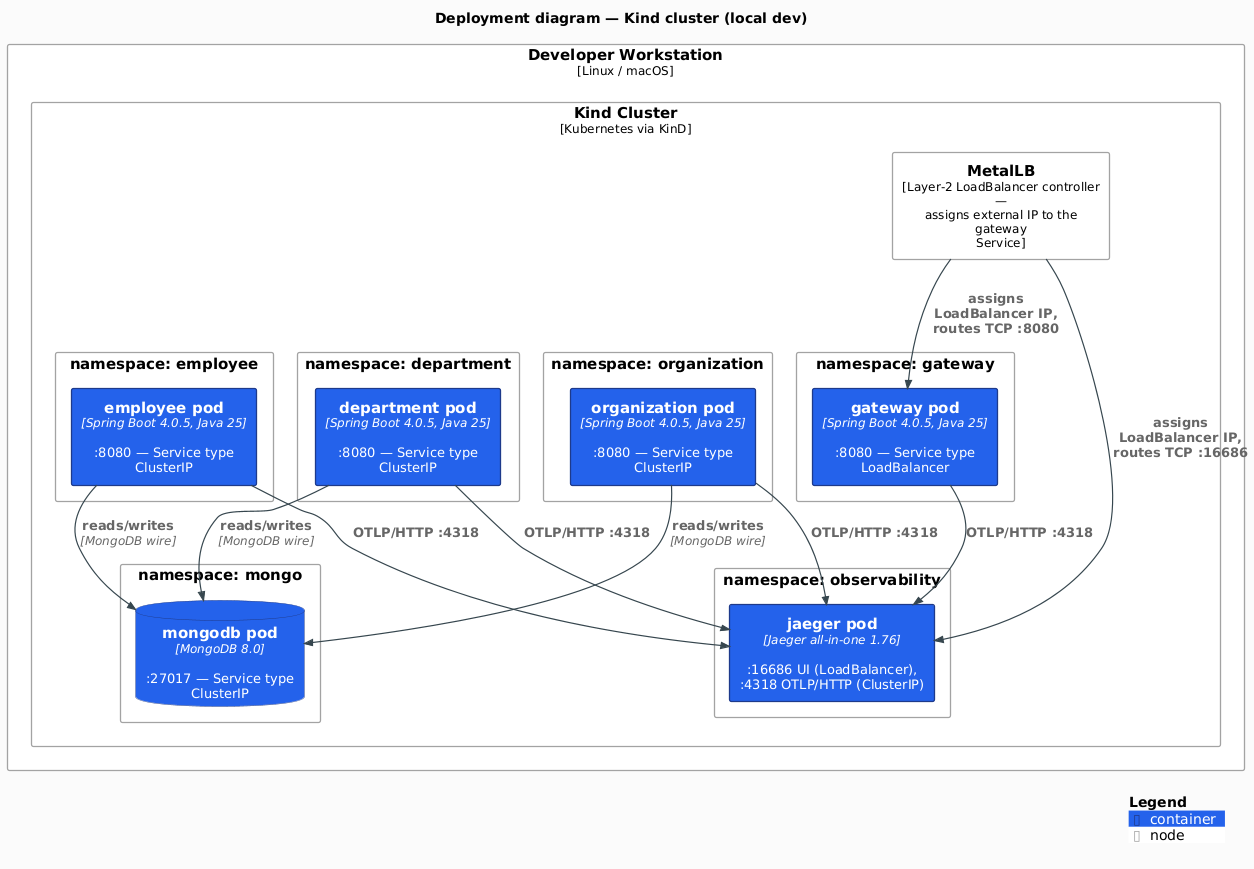
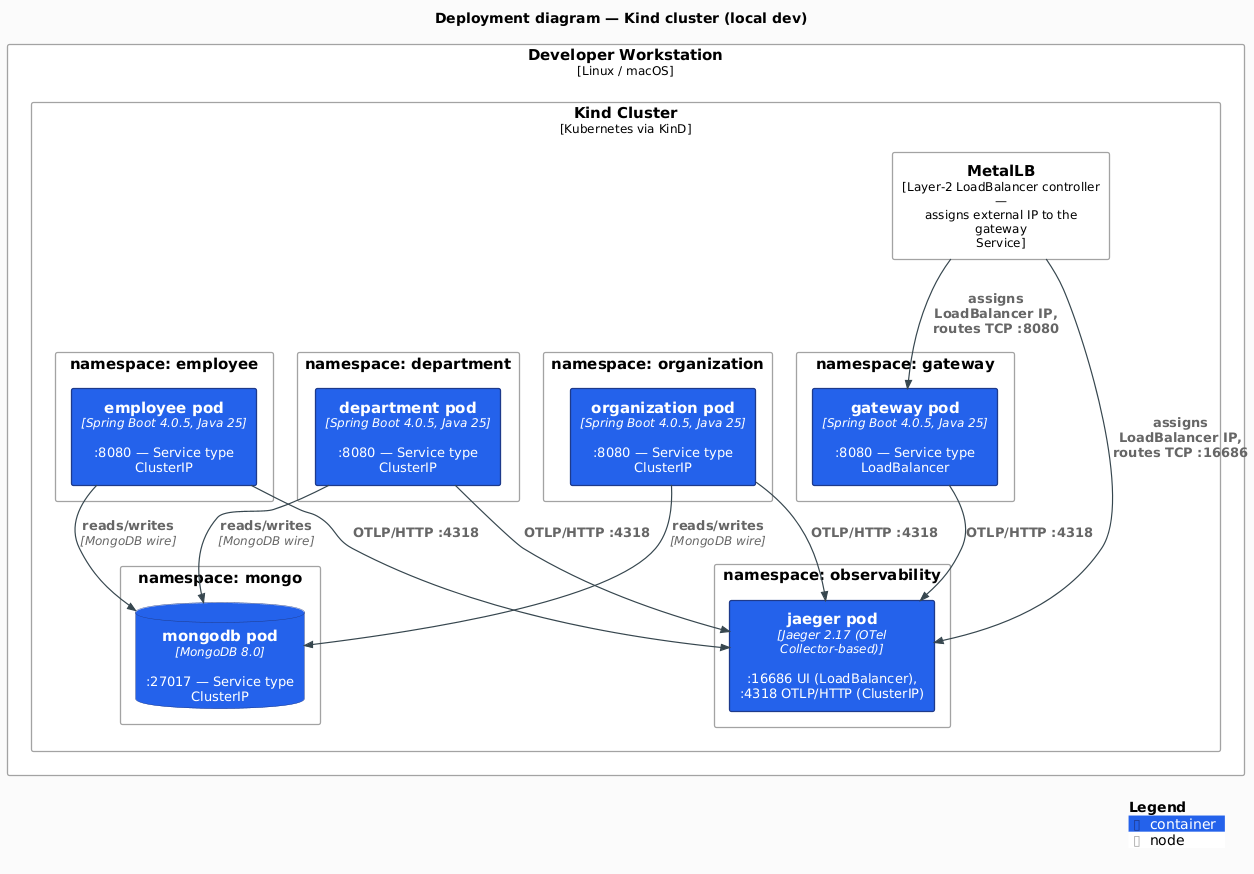
refactor(tracing): migrate Jaeger v1.76 → v2.17 (OTel Collector-based)
Jaeger v2 is now the strategic line — built on the OpenTelemetry
Collector, same architecture our services already use for trace
export. The v1 `all-in-one` image is superseded by the single
`jaegertracing/jaeger:` binary + YAML config.

## Manifest changes

- New `k8s/jaeger-config.yaml` ConfigMap with a minimal otelcol YAML:
  OTLP receivers (gRPC :4317, HTTP :4318), in-memory storage (100k
  trace limit), query UI bound to :16686 and gRPC :16685, healthcheckv2
  extension on :13133. Config is an unmodified subset of Jaeger's
  published v2.17 default (cmd/jaeger/config.yaml).
- Rewrote `k8s/jaeger-deployment.yaml`:
  - Image `jaegertracing/all-in-one:1.76.0` → `jaegertracing/jaeger:2.17.0`
  - Removed `COLLECTOR_OTLP_ENABLED` env var (no longer needed)
  - Added args `--config=file:/etc/jaeger/config.yaml`
  - Mount the ConfigMap volume at /etc/jaeger/
  - Readiness/liveness probes moved from GET :16686/ to GET :13133/status
    (healthcheckv2 extension's endpoint)
  - Non-root UID 10001 unchanged (matches image default)
  - Ports unchanged from v1: UI :16686 (LoadBalancer), OTLP HTTP :4318,
    OTLP gRPC :4317, + :13133 for health

## Wiring

- `make kind-setup` now applies `jaeger-config.yaml` before the
  Deployment so the ConfigMap exists when the pod starts.
- Service-side OTLP endpoint config in the four ConfigMaps is unchanged —
  v2 receiver contract matches v1, so `jaeger.observability.svc.cluster
  .local:4318/v1/traces` still resolves.

## Verification
[…]

diff --git a/CLAUDE.md b/CLAUDE.md
@@ -64,7 +64,7 @@ make kind-undeploy # Remove services but keep the cluster running
 
 - Java 25, Spring Boot 4.0, Spring Cloud Kubernetes (2025.1)
 - RestClient with @HttpExchange (inter-service communication)
-- Micrometer Tracing + OpenTelemetry OTLP exporter → Jaeger all-in-one (in-cluster, `observability` namespace; UI exposed via MetalLB on :16686, `make jaeger-open`)
+- Micrometer Tracing + OpenTelemetry OTLP exporter → Jaeger 2.x (OTel-Collector-based; in-cluster, `observability` namespace; UI exposed via MetalLB on :16686, `make jaeger-open`)
 - Maven multi-module build
 - Docker (multi-arch via buildx)
 - Kubernetes (Kind + MetalLB for local dev)
@@ -83,7 +83,6 @@ Each row carries an explicit **Revisit-if** list of observable conditions. When 
 | 1c | Remove `continue-on-error: true` from `cve-check` job's OWASP step | Blocked on upstream fix (dependency-check/DependencyCheck#8424) | - `jeremylong/open-vulnerability-clients#106` closed<br>- OWASP Dependency-Check releases a version > `12.2.1`<br>- NVD rolls back the 9-digit nanosecond timestamp change (check https://nvd.nist.gov/vuln/data-feeds)<br>- A full CI run passes with `continue-on-error` removed locally | **2026-04-15**: NVD changed its API `timestamp` field from 6-digit microsecond to 9-digit nanosecond precision. ODC's Jackson `ZonedDateTime` deserializer in `CveApiJson20` can't parse the new format; every `cve-check` run fails with `DateTimeParseException: unparsed text found at index 23`. Affects ODC 12.2.0 and 12.2.1 (the latest). Upstream maintainer's quote: *"ODC will be broken when using the NVD API for ever"* until the upstream client library is fixed and a new ODC release ships it. Coverage is not lost in the interim — the `image-scan` job runs Trivy with CRITICAL/HIGH blocking on every push across the 4-service matrix, and it catches the same class of CVEs at the image layer (Trivy caught CVE-2026-34483/34486/34487 in tomcat-embed-core 11.0.20 during the ship-it pipeline that introduced this backlog entry). Remove the `continue-on-error: true` flag on the "Run OWASP dependency check" step in `.github/workflows/ci.yml` when any trigger fires. |
 | 2 | `actions/cache` Node 20 deprecation (transitive via `sigstore/cosign-installer`) | Blocked on upstream | - `sigstore/cosign-installer` releases a version past `v4.1.1`<br>- Current date ≥ 2026-08-16 (one month before runner enforcement) and upstream still hasn't shipped | Node 20 hard-removed from GitHub Actions runners **2026-09-16**. The cache action is a transitive dep inside `sigstore/cosign-installer@v4.1.1` — we're already on latest. Renovate will ship the next cosign-installer release automatically. No manual action; track so it doesn't surprise us in Sept. |
 | 3 | Java 25 → Java 29 LTS migration | Planned for Q3–Q4 2027 | - Java 29 GA announced (target 2027-09)<br>- Java 25 security backports end (earlier than Java 29 GA would be unusual but possible) | Java 25 is a non-LTS release (6-month support). Next LTS is **Java 29** (Sep 2027). No action needed now — Temurin 25 still receives security backports through its standard window, and the `eclipse-temurin:25.0.2_10-jre-noble@sha256:…` digest is re-pinned by Renovate when new patches ship. Plan the Java 29 bump when `.java-version`, parent pom `<java.version>`, the `java = "25"` pin in `.mise.toml`, and `JAVA_MAJOR` in the Makefile move together. |
-| 4 | Jaeger v1 → v2 migration | Deferred (topology change) | - Jaeger v2 reaches feature parity for all-in-one deployments (monitor release notes)<br>- Official Jaeger v2 migration guide published<br>- Jaeger v1.x line announces EOL date | Jaeger v2 stable line has shipped (v2.17.0 as of Mar 2026) but requires a topology change — the `jaegertracing/all-in-one` image is replaced by `jaegertracing/jaeger:` + OTel-collector-based configuration (YAML config file instead of env vars). Not a drop-in. Current pin: `jaegertracing/all-in-one:1.76.0` (v1.x line is still maintained as of this writing). Renovate is pinned to the 1.x line implicitly because it tracks the exact image; switching to v2 requires a manual k8s manifest rewrite (new image coordinate, new Service + ConfigMap, updated ports). Plan as a single PR: new deployment YAML, OTLP endpoint sanity check in all four services, e2e verification. |
 
 ## Skills
 

diff --git a/README.md b/README.md
@@ -22,7 +22,7 @@ Source: [`docs/diagrams/c4-container.puml`](docs/diagrams/c4-container.puml) —
 | Service Discovery | Spring Cloud Kubernetes | Uses the Kubernetes API as the registry — no Eureka/Consul to operate; `all-namespaces: true` enables cross-namespace discovery |
 | Database | MongoDB 8.0 (official `mongo` image, non-root UID 999, version-pinned) | Document model fits the Organization → Department → Employee aggregates without a migration toolchain; official image pinned for Renovate tracking |
 | API Docs | SpringDoc OpenAPI 3.0 / Swagger UI | Auto-generates OpenAPI 3 from `@RestController` annotations; gateway surfaces a unified Swagger UI across all services |
-| Tracing | Micrometer Tracing → OpenTelemetry OTLP → Jaeger all-in-one | Spans propagate across all four services via W3C `traceparent`, export over OTLP/HTTP to in-cluster Jaeger (`observability` namespace); UI via `make jaeger-open` |
+| Tracing | Micrometer Tracing → OpenTelemetry OTLP → Jaeger | Spans propagate across all four services via W3C `traceparent`, export over OTLP/HTTP to in-cluster Jaeger (`observability` namespace); UI via `make jaeger-open` |
 | Testing | Testcontainers (integration), Kind e2e | Real MongoDB per test class (no mocking) + real cluster for e2e — catches schema drift and manifest bugs that in-process tests miss |
 | Containers | Eclipse Temurin 25, multi-arch (amd64+arm64) | Temurin is the reference OpenJDK build; multi-arch covers Apple Silicon dev + x86 servers from a single manifest |
 | Local K8s | Kind + MetalLB | Kind runs a real Kubernetes API in Docker — higher fidelity than Minikube; MetalLB gives LoadBalancer Services a reachable IP on localhost |
@@ -77,7 +77,7 @@ This architecture follows Cloud Native best practices and [The 12 Factor App](ht
 - **Inter-service communication** via RestClient (`@HttpExchange`)
 - **API documentation** exposed via Swagger UI
 - **Docker images** built with layered JARs using the Spring Boot plugin
-- **Observability** via Prometheus exporters + distributed tracing (Micrometer → OTLP → Jaeger all-in-one)
+- **Observability** via Prometheus exporters + distributed tracing (Micrometer → OTLP → Jaeger)
 - **Static analysis** via google-java-format, Checkstyle, hadolint, gitleaks, actionlint, Trivy (filesystem + K8s config), and PlantUML diagram drift check — all wired into the `make static-check` composite gate
 
 ### Service Communication

diff --git a/docs/reference-architecture.md b/docs/reference-architecture.md
@@ -523,8 +523,12 @@ rather than the legacy Brave / Zipkin bridge. This is the industry-standard
 target for observability consolidation and works with any OTLP-compatible
 backend (Tempo, Jaeger, Honeycomb, Datadog, …).
 
-Spans are exported over OTLP/HTTP to an in-cluster **Jaeger all-in-one**
-Deployment in the `observability` namespace. Each service ConfigMap sets:
+Spans are exported over OTLP/HTTP to an in-cluster **Jaeger 2.x**
+Deployment in the `observability` namespace. Jaeger v2 is built on the
+OpenTelemetry Collector and is configured via a YAML file mounted from
+[`k8s/jaeger-config.yaml`](../k8s/jaeger-config.yaml) (in-memory storage,
+OTLP receivers on 4317/4318, query UI on 16686). Each service ConfigMap
+sets:
 
 ```yaml
 management.tracing.sampling.probability: "1.0"
